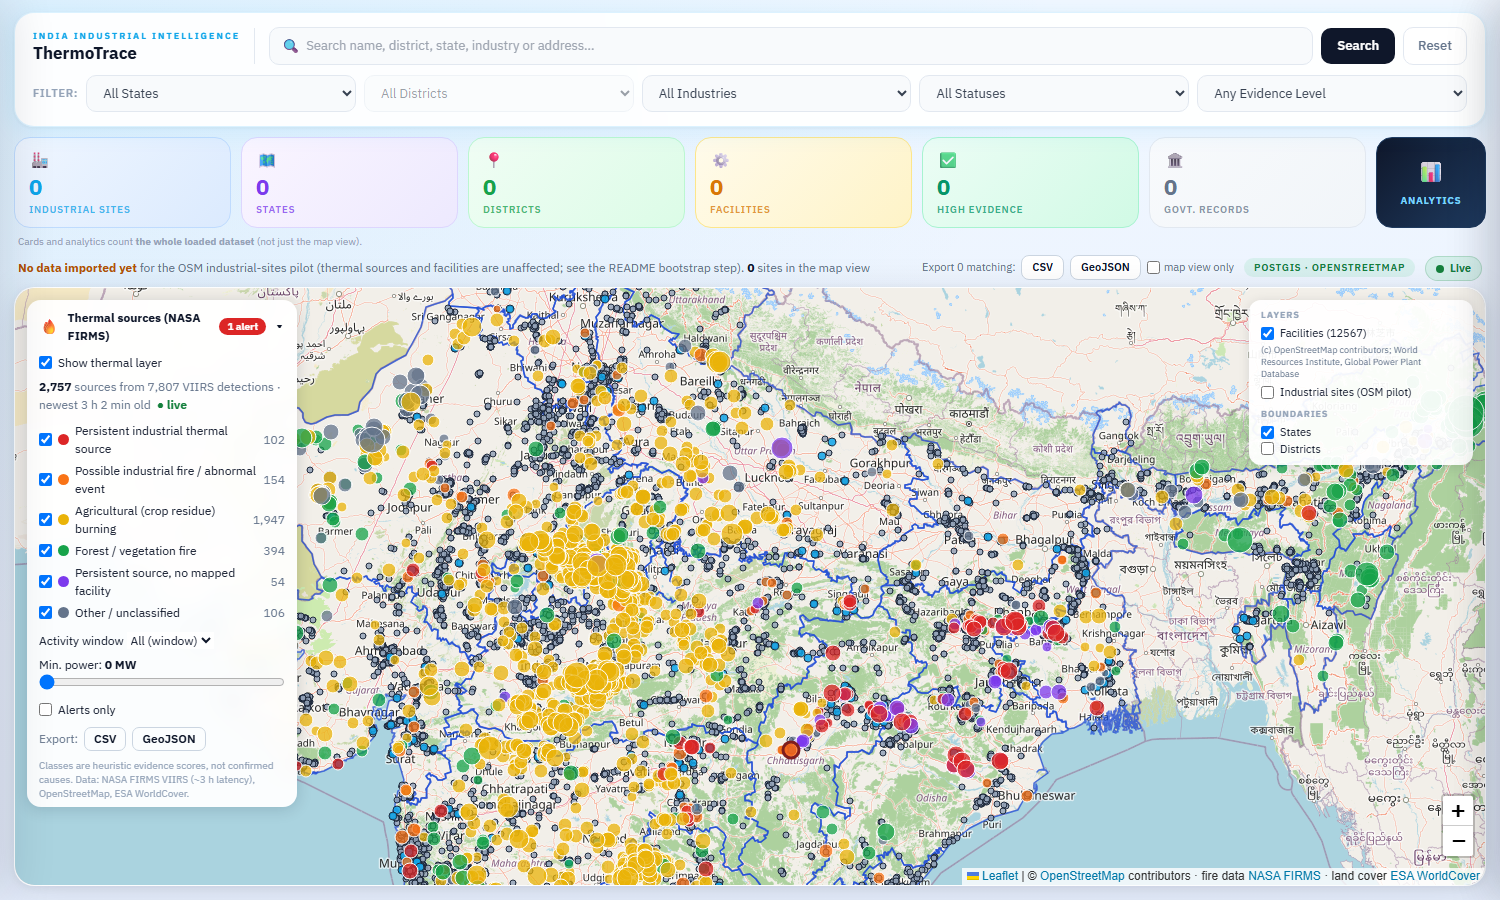
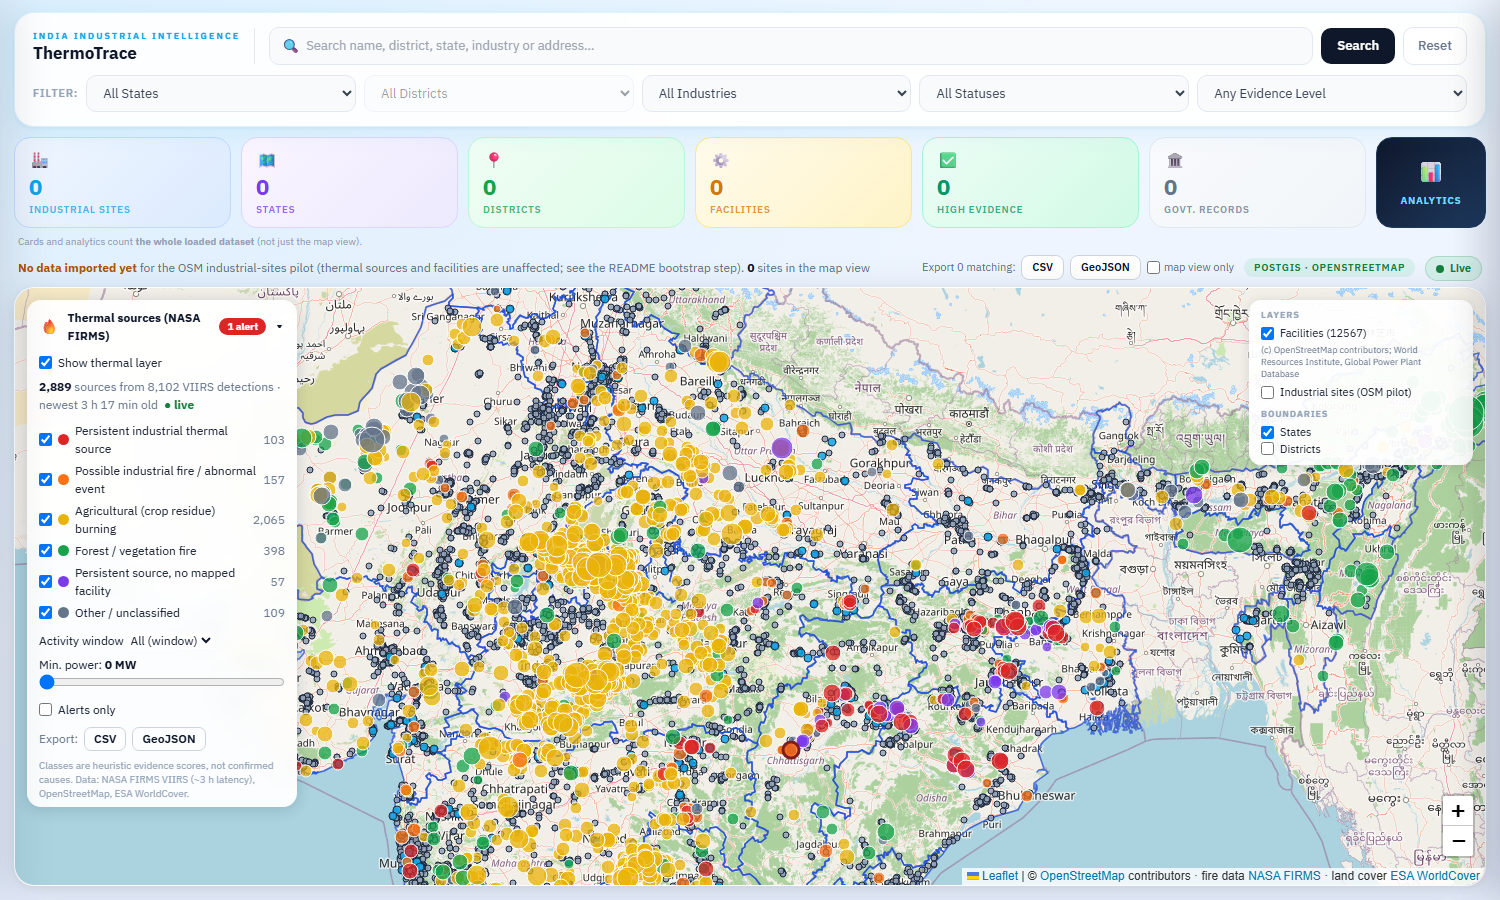
docs+fix: verification of phases 0-2; every source gets a z-score; nginx re-resolves the API
- README: phase 0-2 verification table with evidence (CI runs, test counts, DB figures) and the open gaps
  (GEM and VNF not loaded); docker_stack.png from the production nginx image on :8080
- baseline.attach: use the cell that holds the cluster's detections when its centroid cell has none
  (17 of 2,889 sources had no z-score; now 2,889 of 2,889)
- nginx: resolver + variable upstream, recreating the api container no longer leaves the UI on 502
- screenshots retaken from the Docker stack

diff --git a/industrial-data/tests/thermal/test_baseline.py b/industrial-data/tests/thermal/test_baseline.py
@@ -149,3 +149,15 @@ def test_index_roundtrips_through_parquet(tmp_path):
 def test_store_text_helper_never_writes_nan():
     from src.thermal.store import _s
     assert _s(float("nan")) is None and _s(None) is None and _s("watch") == "watch"
+
+
+def test_source_whose_centroid_cell_has_no_detection_still_gets_a_z_score():
+    """Cluster centroid lands in an empty cell: the z-score must use the cell holding the cluster's detections."""
+    index = bl.BaselineIndex.from_detections(_history(), _sites())
+    live = pd.DataFrame([
+        {**_det(23.5, 85.5, ANCHOR, 12.0), "cluster": 7},
+        {**_det(23.5, 85.5 + 0.002, ANCHOR, 8.0, "VIIRS_NOAA20_NRT", hour=2), "cluster": 7},
+    ])
+    far = _sources(23.5, 85.5 + 0.03, cluster=7)           # centroid ~3 km away, a different 1 km cell
+    out = bl.attach(far, live, index, _sites()).iloc[0]
+    assert out.frp_today == pytest.approx(20.0) and out.frp_z == pytest.approx(20.0)

diff --git a/industrial-data/src/thermal/baseline.py b/industrial-data/src/thermal/baseline.py
@@ -249,7 +249,10 @@ def attach(src: pd.DataFrame, det: pd.DataFrame, index: BaselineIndex | None, si
         return float(s.loc[day]), day
 
     rows = []
-    src_cells = cell_keys(out.lat, out.lon)
+    # a cluster can span cells and its centroid can land in one with no detection: use the cell that holds
+    # most of the cluster's own detections (centroid cell only when the cluster has none in ``det``)
+    modal = d.groupby("cluster").cell_key.agg(lambda s: s.value_counts().index[0]).to_dict() if "cluster" in d else {}
+    src_cells = [modal.get(c, fallback) for c, fallback in zip(out["cluster"], cell_keys(out.lat, out.lon))]         if "cluster" in out.columns else cell_keys(out.lat, out.lon)
     for r, cell in zip(out.itertuples(), src_cells):
         in_fac = bool(getattr(r, "site_within", False)) and getattr(r, "site_ref", None)
         scope, key = ("facility", r.site_ref) if in_fac else ("cell", cell)

diff --git a/README.md b/README.md
@@ -87,7 +87,7 @@ Regenerate: `python industrial-data/scripts/train_classifier.py && python indust
 | Phase | Scope | State |
 |---|---|---|
 | 0 | Clean foundation: legacy tests green, thermal layer is the default map, honest README badges | **done** |
-| 1 | Facility database with provenance: OSM + WRI GPPD + GEM + VIIRS Nightfire, PostGIS, API, map layer | **done for OSM + WRI**; GEM and VNF loaders are tested but their files are not loaded yet (registration/account required) |
+| 1 | Facility database with provenance: OSM + WRI GPPD + GEM + VIIRS Nightfire, PostGIS, API, map layer | **OSM + WRI done; GEM and VNF not loaded** (loaders tested on fixtures; registration/account required) |
 | 2 | 12-month FIRMS baseline per facility and per 1 km cell (S-NPP + NOAA-20), z-score of today against it, shown for every source | **done** (see [Baseline](#baseline-what-is-normal-for-this-place)) |
 | 3-9 | labelled evaluation set, model in the live pipeline, imagery as features, alerting, replay demo, judge-facing dashboard | planned - see [docs/IMPLEMENTATION_PLAN.md](docs/IMPLEMENTATION_PLAN.md) |
 
@@ -132,6 +132,30 @@ Result on the 2026-10-14 run (5,418 current sources, 365 covered days, 651,824 b
 * 2,046 sources have history at their place, 3,372 do not (new heat for that cell: 2,725 of them are crop burning, 521 vegetation fire).
 * Persistent industrial sources are the routine ones: 187 of 188 have history, normally active on a median **42 % of days** (not ~100 %: cloud and monsoon hide a true 24/7 source from a 375 m sensor on many days). Crop-burning sources with a history are active on a median 0.3 % of days.
 * z-score: 1,310 sources are within their usual range or below (< 2), 2,209 are elevated (2 to 4), 1,866 are far above (>= 4) - almost all of the latter are fires in places with no history, where the 1 MW std floor makes any detection a large z.
+
+### Verification of phases 0-2 (2026-10-15, Docker stack on this machine)
+
+![The Docker stack served by the production nginx image on :8080: thermal sources over the facility layer, status "live"](docs/images/docker_stack.png)
+
+| Phase | Item | Result | Evidence |
+|---|---|---|---|
+| 0 | Frontend Docker build | **pass** | `docker compose build frontend` built; the nginx image serves the UI and proxies `/api` on :8080 (screenshot above). nginx now re-resolves the API container, so recreating it no longer leaves a 502 |
+| 0 | CI green | **pass** | the GitHub Actions runs for the last six pushes to `main` finished with `success` (API, PostGIS and frontend jobs) |
+| 0 | PostGIS API suite | **pass** | 34 passed, 0 failed (`backend/tests/postgis`, throw-away database) |
+| 0 | Legacy pipeline tests | **pass** | `industrial-data/tests`: 288 passed, 0 skipped with PostGIS available (261 passed + 27 skipped without a database) |
+| 0 | Facilities in PostGIS, matching reads them | **pass** | table `facilities`; the Docker worker (`THERMAL_SITES_FROM_DB=1`) loads 12,567 rows from it. The GeoJSON file remains a fallback for the no-database mode only |
+| 0 | OSM pilot layer behind a toggle | **pass** | off by default, map shows thermal sources + facilities |
+| 0 | Badges match the code | **pass** | Redis, Celery, MapLibre, Plotly, SciPy removed |
+| 1 | OSM + WRI in PostGIS with provenance | **pass** | 19,497 OSM + 397 WRI records -> 12,567 facilities in `facilities`, every record in `facility_sources` with source id, licence, attribution; 247 plants confirmed by both; 580 OSM outlines |
+| 1 | Global Energy Monitor trackers | **not done** | loader and tests exist (fixtures), but GEM data sits behind a registration form (name, organisation, terms) and has not been downloaded |
+| 1 | VIIRS Nightfire flare sites | **not done** | loader and tests exist (fixtures); needs a free EOG account |
+| 1 | Facilities layer with source attribution | **pass** | `/api/facilities` (PostGIS) + map layer, attribution list and per-record licences in the popup |
+| 2 | 12 months of S-NPP + NOAA-20, `product` column | **pass** | 1,874,454 detections (SP 1,815,205, NRT 62,066) in `thermal_detections`; 365 covered days |
+| 2 | `thermal_baseline` view | **pass** | 651,898 rows (facility and 1 km cell) with active-day fraction, 12-month profile, median/p95 FRP, night share |
+| 2 | Every current source: "normally active X% of days, typical FRP Y MW" + z-score | **pass** | of 2,889 current sources, 2,889 have the active-day fraction and a z-score; 1,274 have history at their place (typical FRP shown), the other 1,615 are "never seen here" |
+
+Phase 1 is therefore complete for the two open sources (OSM, WRI) and **incomplete for GEM and VNF**: two of the four
+sources the plan lists are not loaded, because both require a registration only the account owner can do.
 
 ## What is implemented (and verified)
 
@@ -314,7 +338,7 @@ TEST_DATABASE_URL=postgresql://user:pw@localhost:5432/postgres python -m pytest 
 cd industrial-gis/frontend && npx tsc --noEmit && npm test && npm run build
 ```
 
-Results on the development machine (2026-10-15): `industrial-data/tests` 261 passed, 27 skipped (the skips need PostGIS); with PostGIS `tests/sync` 27 passed (sync lifecycle + baseline SQL-vs-pandas parity); API synthetic suite 62 passed; API against PostGIS 34 passed; frontend `tsc` clean, vitest 34 passed. The CI workflow runs the synthetic, thermal/sync and PostGIS jobs; its result on GitHub is not recorded here.
+Results on the development machine (2026-10-15): `industrial-data/tests` 288 passed with PostGIS available (261 passed + 27 skipped without a database); API synthetic suite 62 passed; API against PostGIS 34 passed; frontend `tsc` clean, vitest 34 passed. GitHub Actions: the last six pushes to `main` completed with `success`.
 
 ## Configuration
 
